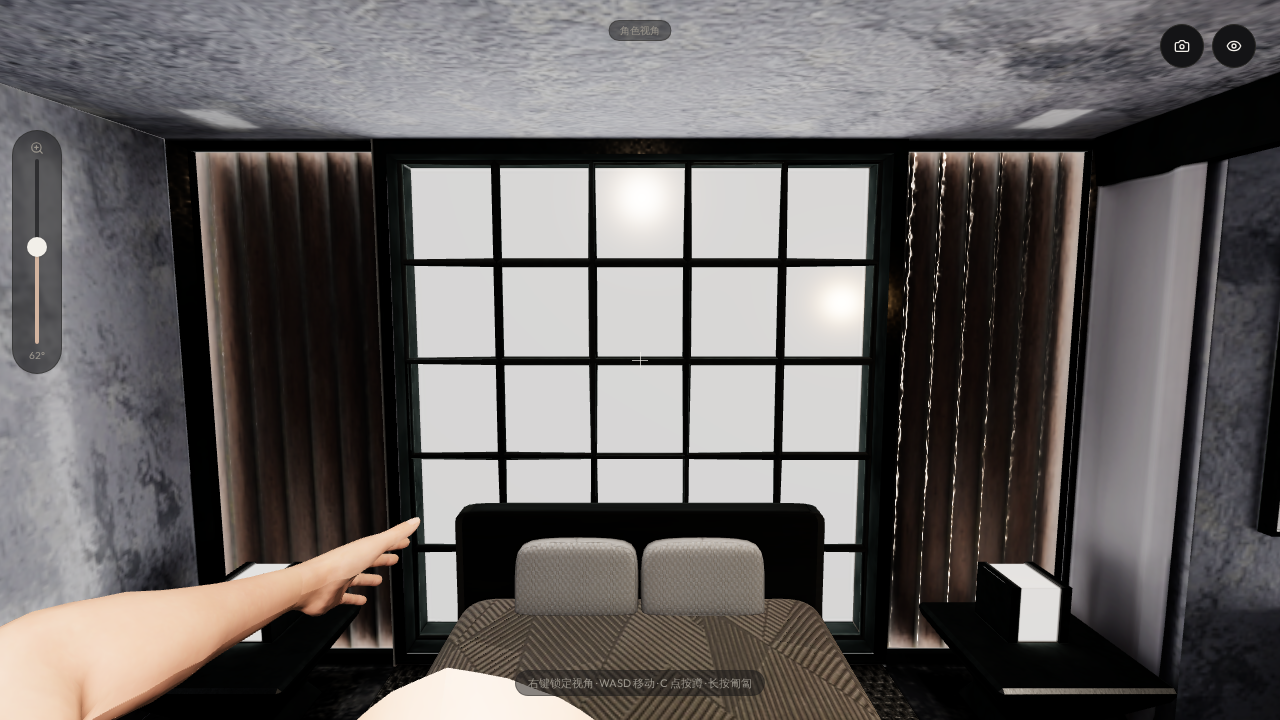
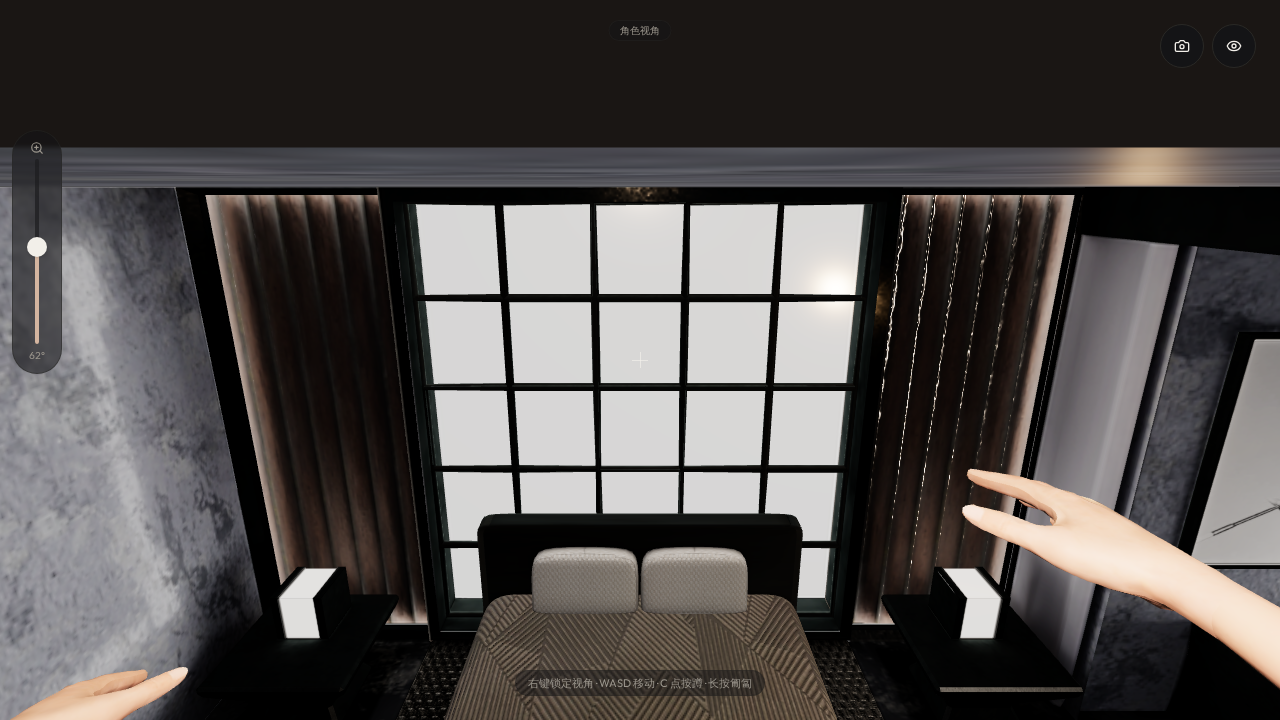
Export from Grok

diff --git a/src/components/studio/scene.tsx b/src/components/studio/scene.tsx
@@ -486,19 +486,18 @@ const FP_STAND = 1.58;
 const FP_CROUCH = 0.86;
 const FP_PRONE = 0.28;
 const FP_WALK = 1.65;
-const FP_AIR = 1.15;
-const FP_JUMP = 3.15;
-const FP_GRAV = 14;
+const FP_AIR = 1.35;
+const FP_JUMP = 5.2;
+const FP_GRAV = 13;
 const FP_SENS = 0.0017;
 const FP_TOUCH_SENS = 0.00305;
-const FP_PITCH_LIM = 1.18;
+const FP_PITCH_LIM = Math.PI / 2 - 0.02;
 const FP_BOUNDS = { x: 1.85, zMin: -1.55, zMax: 2.85, bodyR: 0.28 };
 const ORBIT_HOME = { px: 0.28, py: 1.18, pz: 2.35, tx: 0, ty: 1.06, tz: 0.1, fov: 34 };
 const _fpRight = new THREE.Vector3();
 const _fpFwd = new THREE.Vector3();
 const _fpUp = new THREE.Vector3();
 const _fpZ = new THREE.Vector3();
-const _fpAim = new THREE.Vector3();
 const _fpMat = new THREE.Matrix4();
 
 function lookDirFromYawPitch(yaw: number, pitch: number, out: THREE.Vector3) {
@@ -971,19 +970,7 @@ function FirstPersonRig({
     const fz = -Math.cos(yaw.current);
     if (body) {
       camera.position.set(fpLive.eyeX, fpLive.eyeY, fpLive.eyeZ);
-      lookDirFromYawPitch(yaw.current, pitch.current, _fpFwd);
-      const down = THREE.MathUtils.clamp(-pitch.current, 0, FP_PITCH_LIM);
-      const t = THREE.MathUtils.smoothstep(down, 0.12, 0.7);
-      _fpAim.set(
-        fpLive.chestX - camera.position.x,
-        fpLive.chestY - camera.position.y,
-        fpLive.chestZ - camera.position.z,
-      );
-      if (_fpAim.lengthSq() > 1e-8) {
-        _fpAim.normalize();
-        _fpFwd.lerp(_fpAim, t).normalize();
-      }
-      applyLookDir(camera, _fpFwd, yaw.current);
+      applyFpLook(camera, yaw.current, pitch.current);
     } else {
       const lookY = pos.current.y + eye.current + bob.current;
       camera.position.set(pos.current.x, lookY, pos.current.z);

diff --git a/src/components/studio/figure.tsx b/src/components/studio/figure.tsx
@@ -1700,7 +1700,8 @@ function FittedFigure({
       _bodyE.set(0, fpLive.yaw + Math.PI, 0, "YXZ");
       setup.root.quaternion.setFromEuler(_bodyE);
       setup.root.updateMatrixWorld(true);
-      setup.skeleton.setBodyLook?.(s.fpProne ? 0 : fpLive.pitch);
+      setup.skeleton.clearBodyLook?.();
+      setup.skeleton.setGazeTarget(null);
       setup.skeleton.tickLocomotion(dt, {
         mode: s.fpProne ? "prone" : s.fpCrouch ? "crouch" : "stand",
         fwd: fpLive.moveFwd,
@@ -1914,10 +1915,12 @@ function FittedFigure({
       stirRadius: s.fistStirRadius,
     });
     const fistBelly = setup.fist.belly();
+    const jumping = (bodyOn && !fpLive.grounded) || s.pose === "jump";
+    const breastLock = jumping ? 0.14 : 1;
     setup.skeleton.step(dt, {
       stiffness: s.stiffness,
       damping: s.damping,
-      jiggle: s.jiggle,
+      jiggle: jumping ? s.jiggle * 0.18 : s.jiggle,
       gravity: s.gravity,
       wind: s.wind,
       time: state.clock.elapsedTime,
@@ -1938,11 +1941,11 @@ function FittedFigure({
       fistSpread: s.fistSpread,
       fistLever: s.fistLever,
       fistRise: s.fistRise,
-      breastSoft: s.breastSoft,
-      breastDamp: s.breastDamp,
+      breastSoft: s.breastSoft * breastLock,
+      breastDamp: jumping ? Math.min(1, 0.88 + s.breastDamp * 0.12) : s.breastDamp,
       hairDamp: s.hairDamp,
-      breastInertia: s.breastInertia,
-      hairInertia: s.hairInertia,
+      breastInertia: s.breastInertia * breastLock,
+      hairInertia: jumping ? s.hairInertia * 0.35 : s.hairInertia,
       blinkEnabled: s.blinkEnabled,
       eyeOpenL: s.eyeOpenL,
       eyeOpenR: s.eyeOpenR,

diff --git a/src/lib/softbody/soft-skeleton.ts b/src/lib/softbody/soft-skeleton.ts
@@ -1140,9 +1140,10 @@ export class SoftSkeleton {
   /** Stable eye in root-local space. Stance height only — no head nod, look pitch, or walk bob. */
   fpEyeLocal(out: THREE.Vector3) {
     const mode = this.locoLast.mode;
-    if (mode === "prone") out.set(0, 0.24, 0.56);
-    else if (mode === "crouch") out.set(0, 0.94, 0.14);
-    else out.set(0, 1.5, 0.12);
+    // Sit in front of the (hidden) face so crouch-lean / prone never swallows the camera.
+    if (mode === "prone") out.set(0, 0.30, 0.74);
+    else if (mode === "crouch") out.set(0, 1.06, 0.50);
+    else out.set(0, 1.52, 0.20);
     return out;
   }
 
@@ -1202,7 +1203,7 @@ export class SoftSkeleton {
       if (opts.jumpU != null) {
         this.locoPhase = THREE.MathUtils.clamp(opts.jumpU, 0, 0.999);
       } else {
-        const t = THREE.MathUtils.clamp((opts.airTime ?? 0) / 0.48, 0, 1);
+        const t = THREE.MathUtils.clamp((opts.airTime ?? 0) / 0.78, 0, 1);
         this.locoPhase = 0.28 + t * 0.3;
       }
     } else {
